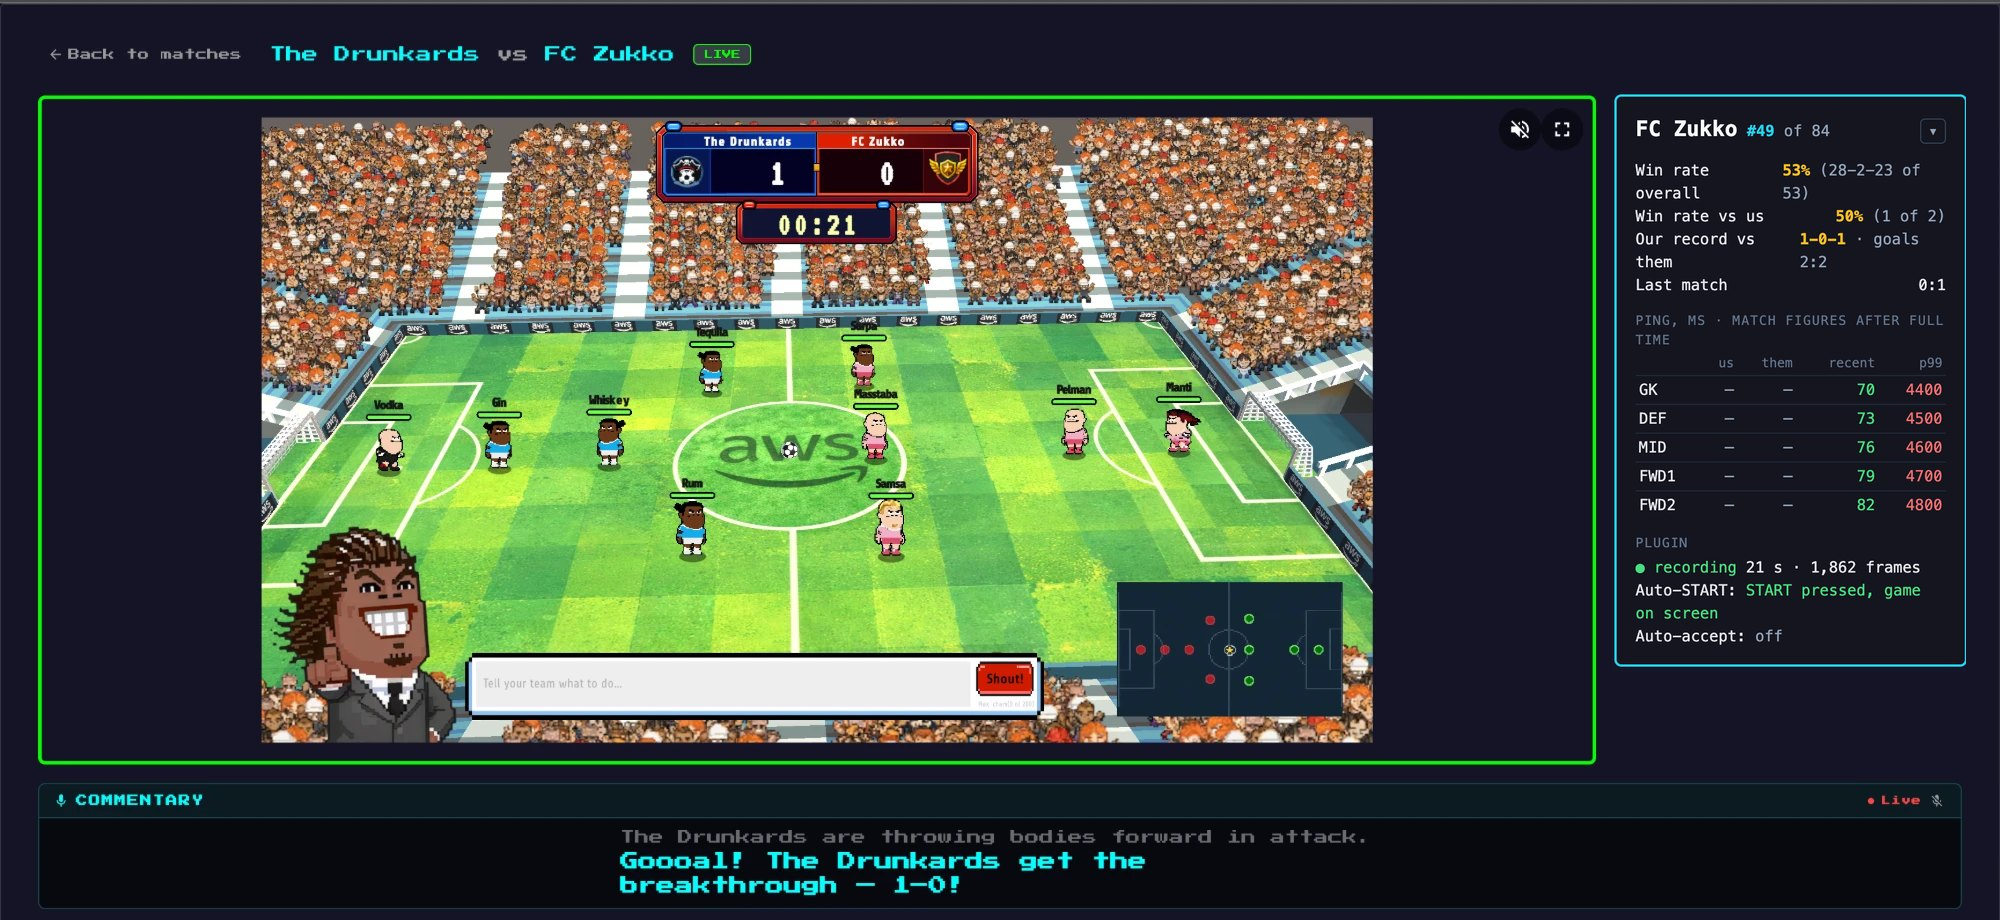
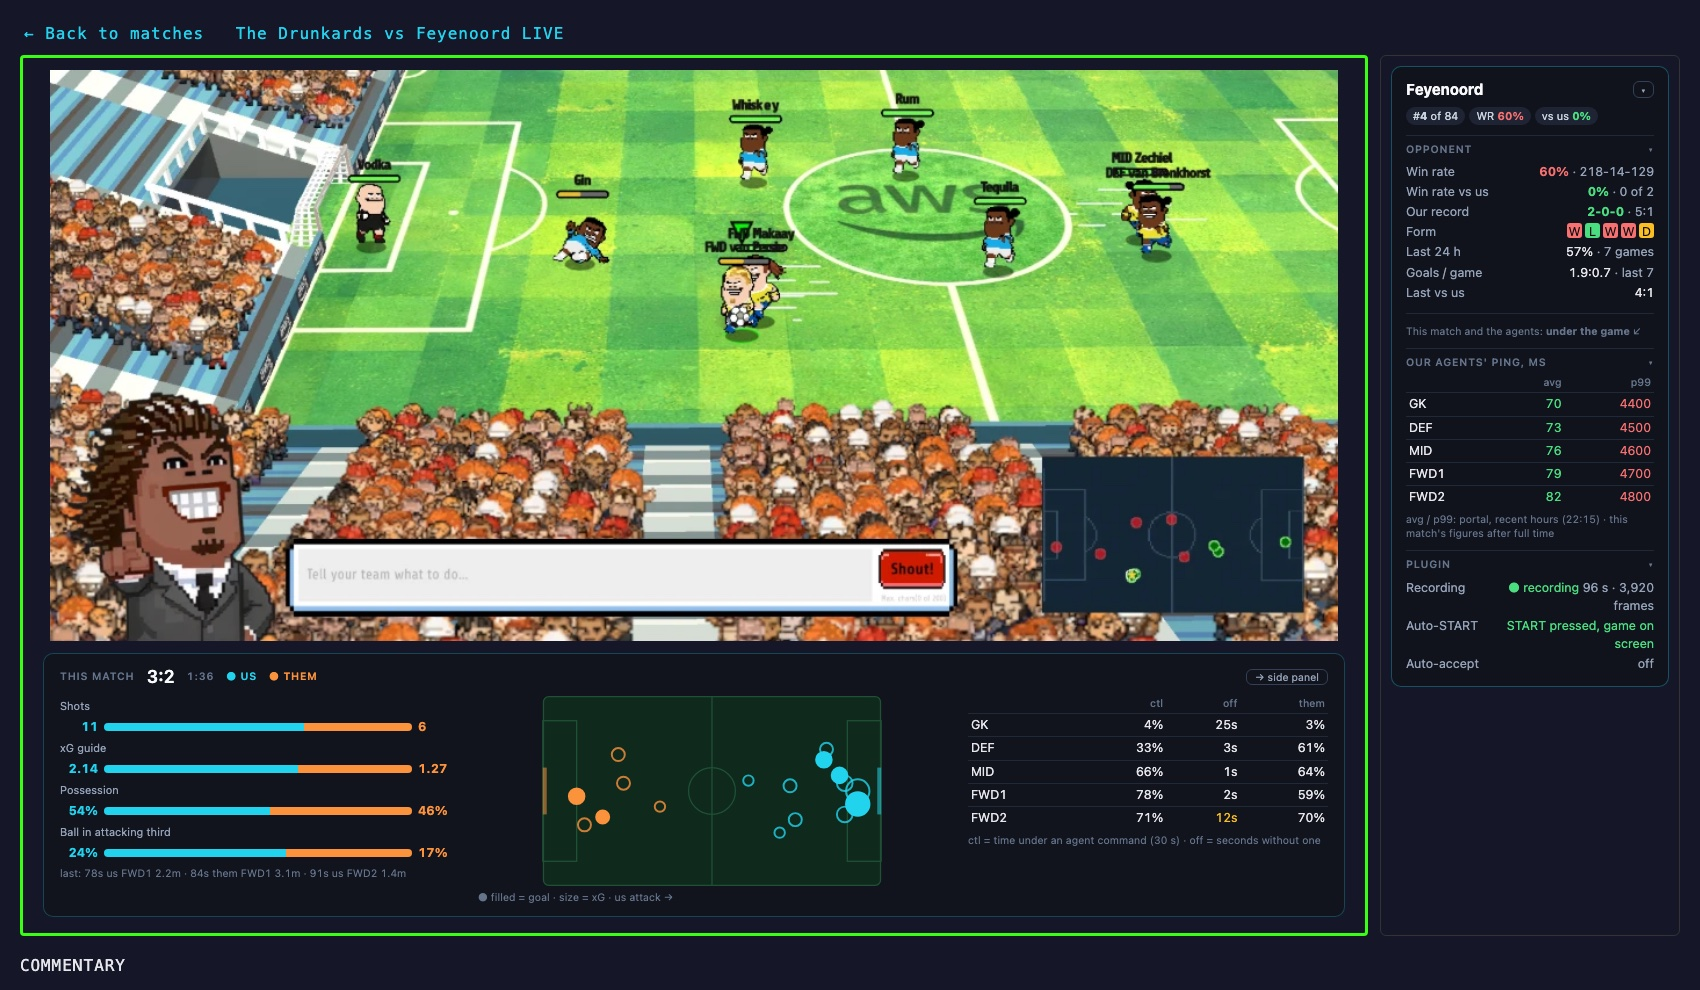
recorder 1.41 (rebuilt)

diff --git a/README.md b/README.md
@@ -10,9 +10,9 @@
 ![Install](https://img.shields.io/badge/install-one%20command-4ade80)
 ![Privacy](https://img.shields.io/badge/data-stays%20on%20your%20Mac-94a3b8)
 
-<img src="docs/viewer-panel.jpg" alt="The match viewer with the plugin's scouting panel: the opponent's place, win rates, our record against them, ping per position and the plugin's state" width="100%">
+<img src="docs/viewer-panel.jpg" alt="The live match viewer with the plugin: a strip under the game with shots, xG, possession, a shot map and the agents table; on the right the opponent's place, win rates, form, our record and ping" width="100%">
 
-<sub>The live match viewer. On the right, in place of the empty Coach Live Feed: everything you want to know about the opponent.</sub>
+<sub>The live match viewer. Under the game: this match in numbers, bars and a shot map, plus your agents. On the right, in place of the empty Coach Live Feed: everything about the opponent.</sub>
 
 </div>
 
@@ -78,6 +78,7 @@ at the top — press it and the plugin installs the new version and reloads itse
 
 Open **Find opponent** and every team already tells you how it stands:
 
+- `⚑ GROUP B` — the team is in your tournament group ([load your group](#-your-tournament-group))
 - `#24` — place in the tournament table
 - `43%` — their win rate overall (red from 60%, yellow from 45%)
 - `vs us 3-0-3 (50%)` — their wins-draws-losses against **you**, and how often they beat you
@@ -92,16 +93,31 @@ Works while you type in the search box too.
 </tr>
 </table>
 
-### The match panel
+### The match, live — under the game
 
-During a match the viewer's right column shows the opponent's **place**, **win rate overall** and
-**against you**, **your record and goals**, the **last match**, **ping per position** for both teams and
-what the plugin is doing (recording, Auto-START, Auto-accept). An **agents live** table shows, per position, how
-much of the last 30 s each player spent on an agent command, for both teams, and how long your player has been
-without one: a silent or slow agent shows at once. Above it, **this match live**: shots, an xG guide,
-possession and how much the ball sits in each side's attacking third. Under the win rates, the opponent's
-**form**: their last 5 results and whether they are rising or falling over the last 24 h. Press **▾** to fold it into a strip and
-see the Coach Live Feed again. It appears whether you started the match yourself or accepted a challenge.
+A wide strip inside the game's frame, from kick-off to the final whistle:
+
+- **score and clock**, then **shots**, an **xG guide**, **possession** and **ball in the attacking third** — numbers
+  plus a bar for each (cyan = you, orange = them);
+- a **shot map**: every shot where it was taken, size = xG, filled = goal; you attack to the right;
+- **agents live**: per position, how much of the last 30 s each player spent on an agent command (yours and
+  theirs) and how long your player has been without one — a silent agent shows at once.
+
+Before kick-off it simply says *waiting*. **→ side panel** moves it into the right column if you prefer.
+
+### The opponent panel
+
+The viewer's right column (in place of the empty Coach Live Feed): the opponent's **place**, **win rate overall**
+and **against you**, **your record and goals**, their **form** (last 5 results, rising or falling over 24 h),
+the **last match** between you, your agents' **ping** per position and what the plugin is doing. Sections fold
+one by one; **▾** folds the whole panel to show the Coach Live Feed. It appears whether you started the match
+yourself or accepted a challenge.
+
+### At the final whistle
+
+The plugin's icon shows the live score (green ahead, red behind) while you play. At full time a notification
+sums it up — *Won 3:2 vs Feyenoord · xG 2.1:1.3 · shots 11:6 · possession 54%* — and names any agent that went
+silent for 20+ s; the popup's **Last match** card shows the same with bars.
 
 ---
 
@@ -144,25 +160,16 @@ Your own team in the list does no harm. The group stays in your Chrome only.
 
 <table>
 <tr>
-<td width="44%"><img src="docs/popup.png" alt="The extension popup: an incoming challenge with Accept, the match being recorded, switches and agents' ping"></td>
-<td width="56%" valign="top">
+<img src="docs/popup.png" alt="The extension popup's three tabs: Match (recording, last match with bars, ping), Form (our form, recent matches) and Settings (switches, my group as a table)" width="100%">
 
-Click the extension's icon:
+Click the extension's icon. On top of every tab: **incoming challenges** (who is calling, their numbers, a
+countdown, **Accept** and **🔇** to silence the chime) and **Update** next to the version.
 
-- **Incoming challenges** — who is calling, their numbers, a countdown and **Accept**
-- **This match** — recording, report and score screenshot, each ✓ when saved, plus warnings
-  (late start, silent socket, reloads)
-- **Stop & save**, **Screenshot**, **Folder**, **Day summary** (copies today's matches as a table, with your W-D-L)
-- **Auto-START**, **Auto-accept**, **Chime on challenge** and **Record in background** switches
-- **Our form** — W-D-L, win rate and goals per block of 10 matches, real opponents only
-- **Update** — at the top, next to the version: installs a new version in one click
-- **🔇** on a ringing challenge — silence it (new challenges still ring)
-- **Agents' ping** — this match for both teams, plus the portal's recent average and p99
-- **Recent matches** with ✓/✗ per file — click one to open its report and fill in what is missing
-
-</td>
-</tr>
-</table>
+| Tab | What's there |
+|---|---|
+| **Match** | this match: recording, report and score screenshot, each ✓ when saved, plus warnings · **Last match**: result, shots, xG, possession, silent agents · **Stop & save**, **Screenshot**, **Folder**, **Day summary** · your agents' **ping** |
+| **Form** | **Our form**: W-D-L, win rate and goals per block of 10 matches (real opponents only) · **Recent matches** with ✓/✗ per file — click one to open its report |
+| **⚙ Settings** | the switches (Auto-START, Auto-accept, Chime, Record in background, Save portal data) · **My group** with its table |
 
 ---
 
@@ -195,6 +202,16 @@ accepted by itself, the viewer opens and you get a notification. Built-in safegu
 - it **cannot be switched on and never accepts on the tournament days (28–29 Oct)** — the tournament rules
   say every challenge is accepted by hand there; the check runs before every single accept;
 - it needs an open portal tab (agentic-football.aws.dev), which it checks every 3 s.
+
+**🛎 Chime on challenge** (on). Three notes when a challenge comes in, again every 12 s while it waits; the
+portal tab's title flashes too. **🔇** on the challenge (popup or notification) silences that one.
+
+**🎥 Record in background** (on). A match of yours that no tab shows — accepted in the portal's own banner,
+started from another device — gets its viewer in a background tab, so it is recorded; the tab closes itself after
+the save.
+
+**💾 Save portal data** (off). Writes the portal's table and your matches to `portal.json` in the matches folder,
+for your own scripts. Most people don't need it.
 
 ---
 
